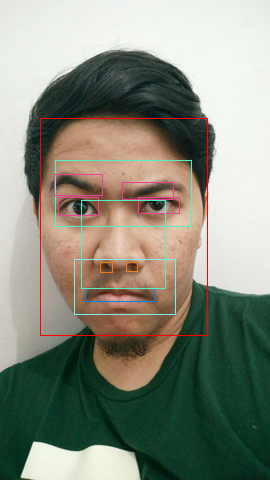
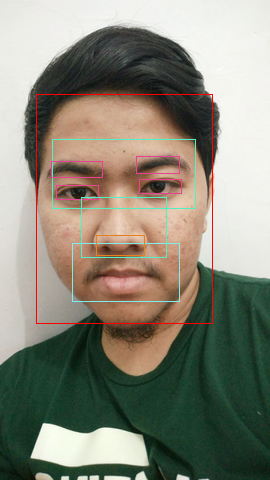
improve nose detection

diff --git a/10/faceboundary.py b/10/faceboundary.py
@@ -69,15 +69,22 @@ def face_detect(image, raw_image, root_path):
         for eb in eye_bounds:
             draw.rectangle(((eb[1]-1, eb[3]-1), (eb[0]+1, eb[2]+1)), fill=None, outline="#e84393")
 
-        nose_top = face_top + (0.38 * face_height)
-        nose_below = face_below - (0.22 * face_height)
-        nose_right = face_right - (0.25 * face_width)
-        nose_left = face_left + (0.25 * face_width)
+        nose_top = face_top + (0.45 * face_height)
+        nose_below = face_below - (0.29 * face_height)
+        nose_right = face_right - (0.26 * face_width)
+        nose_left = face_left + (0.26 * face_width)
         draw.rectangle(((nose_left, nose_top), (nose_right, nose_below)), fill=None, outline="#55efc4")
         arr_nose = [nose_left, nose_top, nose_right, nose_below]
         nose_bounds = object_boundary(new_image_path, root_path, arr_nose, "nose")
+        minb1, minb3 = 999, 999
+        maxb0, maxb2 = 0, 0
         for nb in nose_bounds:
-            draw.rectangle(((nb[1]-1, nb[3]-1), (nb[0]+1, nb[2]+1)), fill=None, outline="#e67e22")
+            if maxb0 < nb[0]: maxb0 = nb[0]
+            if maxb2 < nb[2]: maxb2 = nb[2]
+            if minb1 > nb[1]: minb1 = nb[1]
+            if minb3 > nb[3]: minb3 = nb[3]
+        if minb1 != 999:
+            draw.rectangle(((minb1 - 6, minb3 - 10), (maxb0 + 6, maxb2 + 1)), fill=None, outline="#e67e22")
 
     new_image = image
     new_image_path = 'static/images/face_detected_image.png'
@@ -214,6 +221,6 @@ def object_boundary(image, root_path, arr, obj):
 
                 elif obj == "nose":
                     delxy = abs(del_x - del_y)
-                    if(del_y - del_x < 3 and delxy <= 7 and 23 <= density and density <= 70):
+                    if(del_y - del_x < 3 and delxy <= 8 and 23 <= density and density <= 80 and (del_x*del_y)/2.0 < density):
                         bounds.append(bound)
     return bounds

diff --git a/10/app.py b/10/app.py
@@ -280,7 +280,8 @@ def main10():
     image = Image.open(app.root_path + '/' + img_path)
     image.thumbnail(size, Image.ANTIALIAS)
     image.save(app.root_path + '/' + img_path)
-    new_image_path ,_, _, _ = face_detect(img_path, app.root_path)
+    raw_img_path = 'static/images/face_raw_image.png'
+    new_image_path ,_, _, _ = face_detect(img_path, raw_img_path, app.root_path)
     return json.dumps({'url_after': new_image_path + '?' + str(time.time()) })
 
 @app.route("/11", methods=['GET'])
